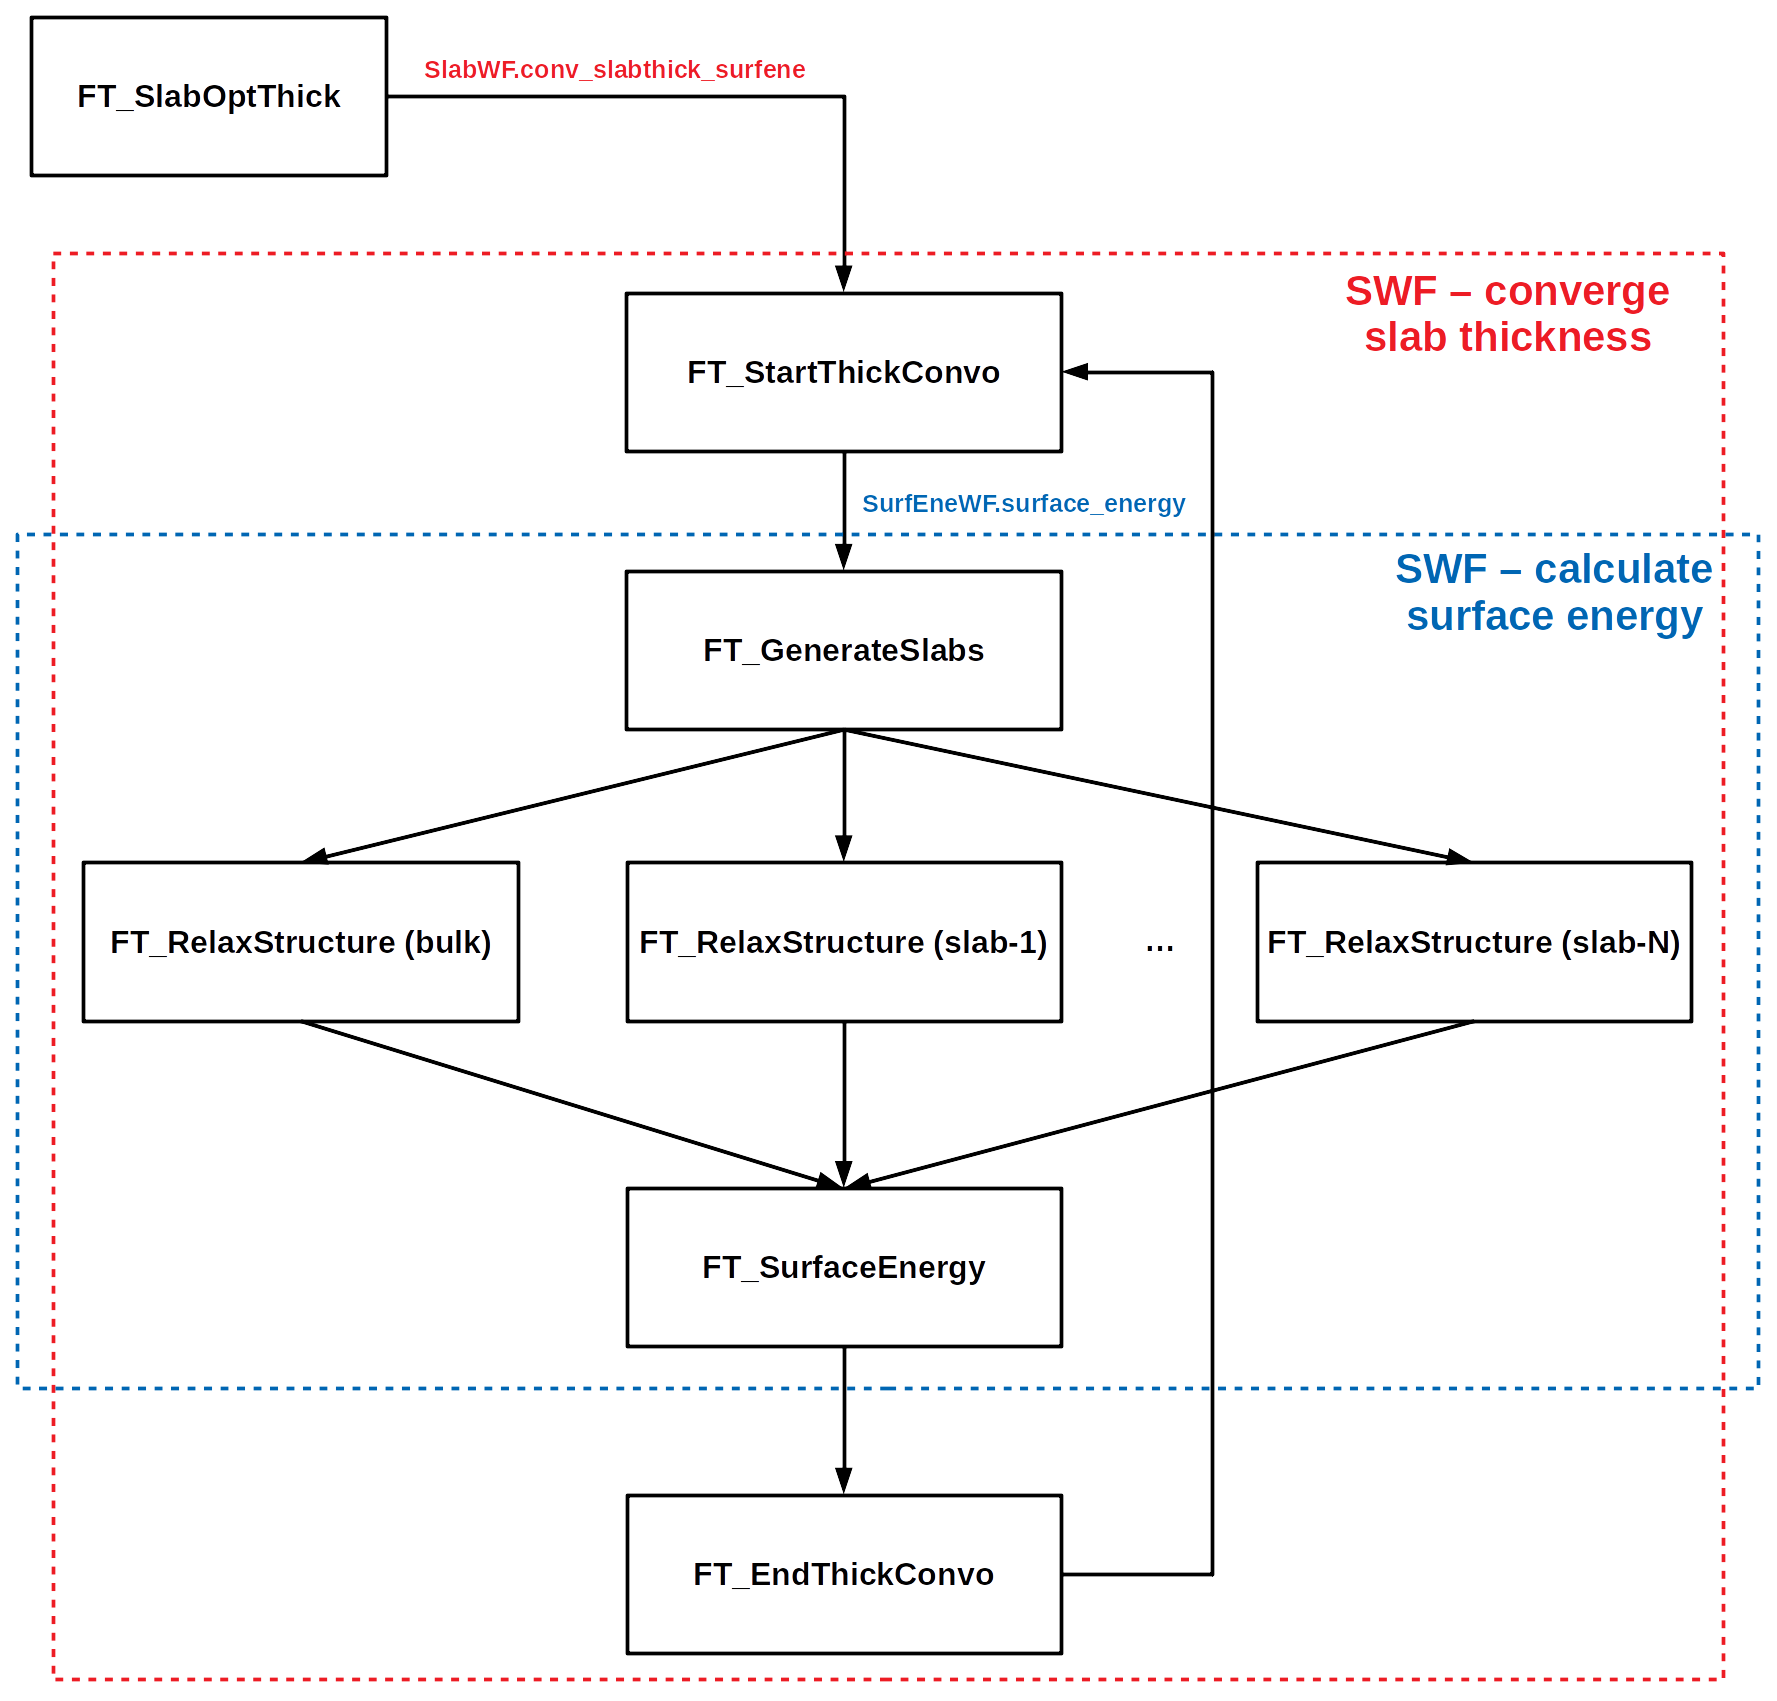
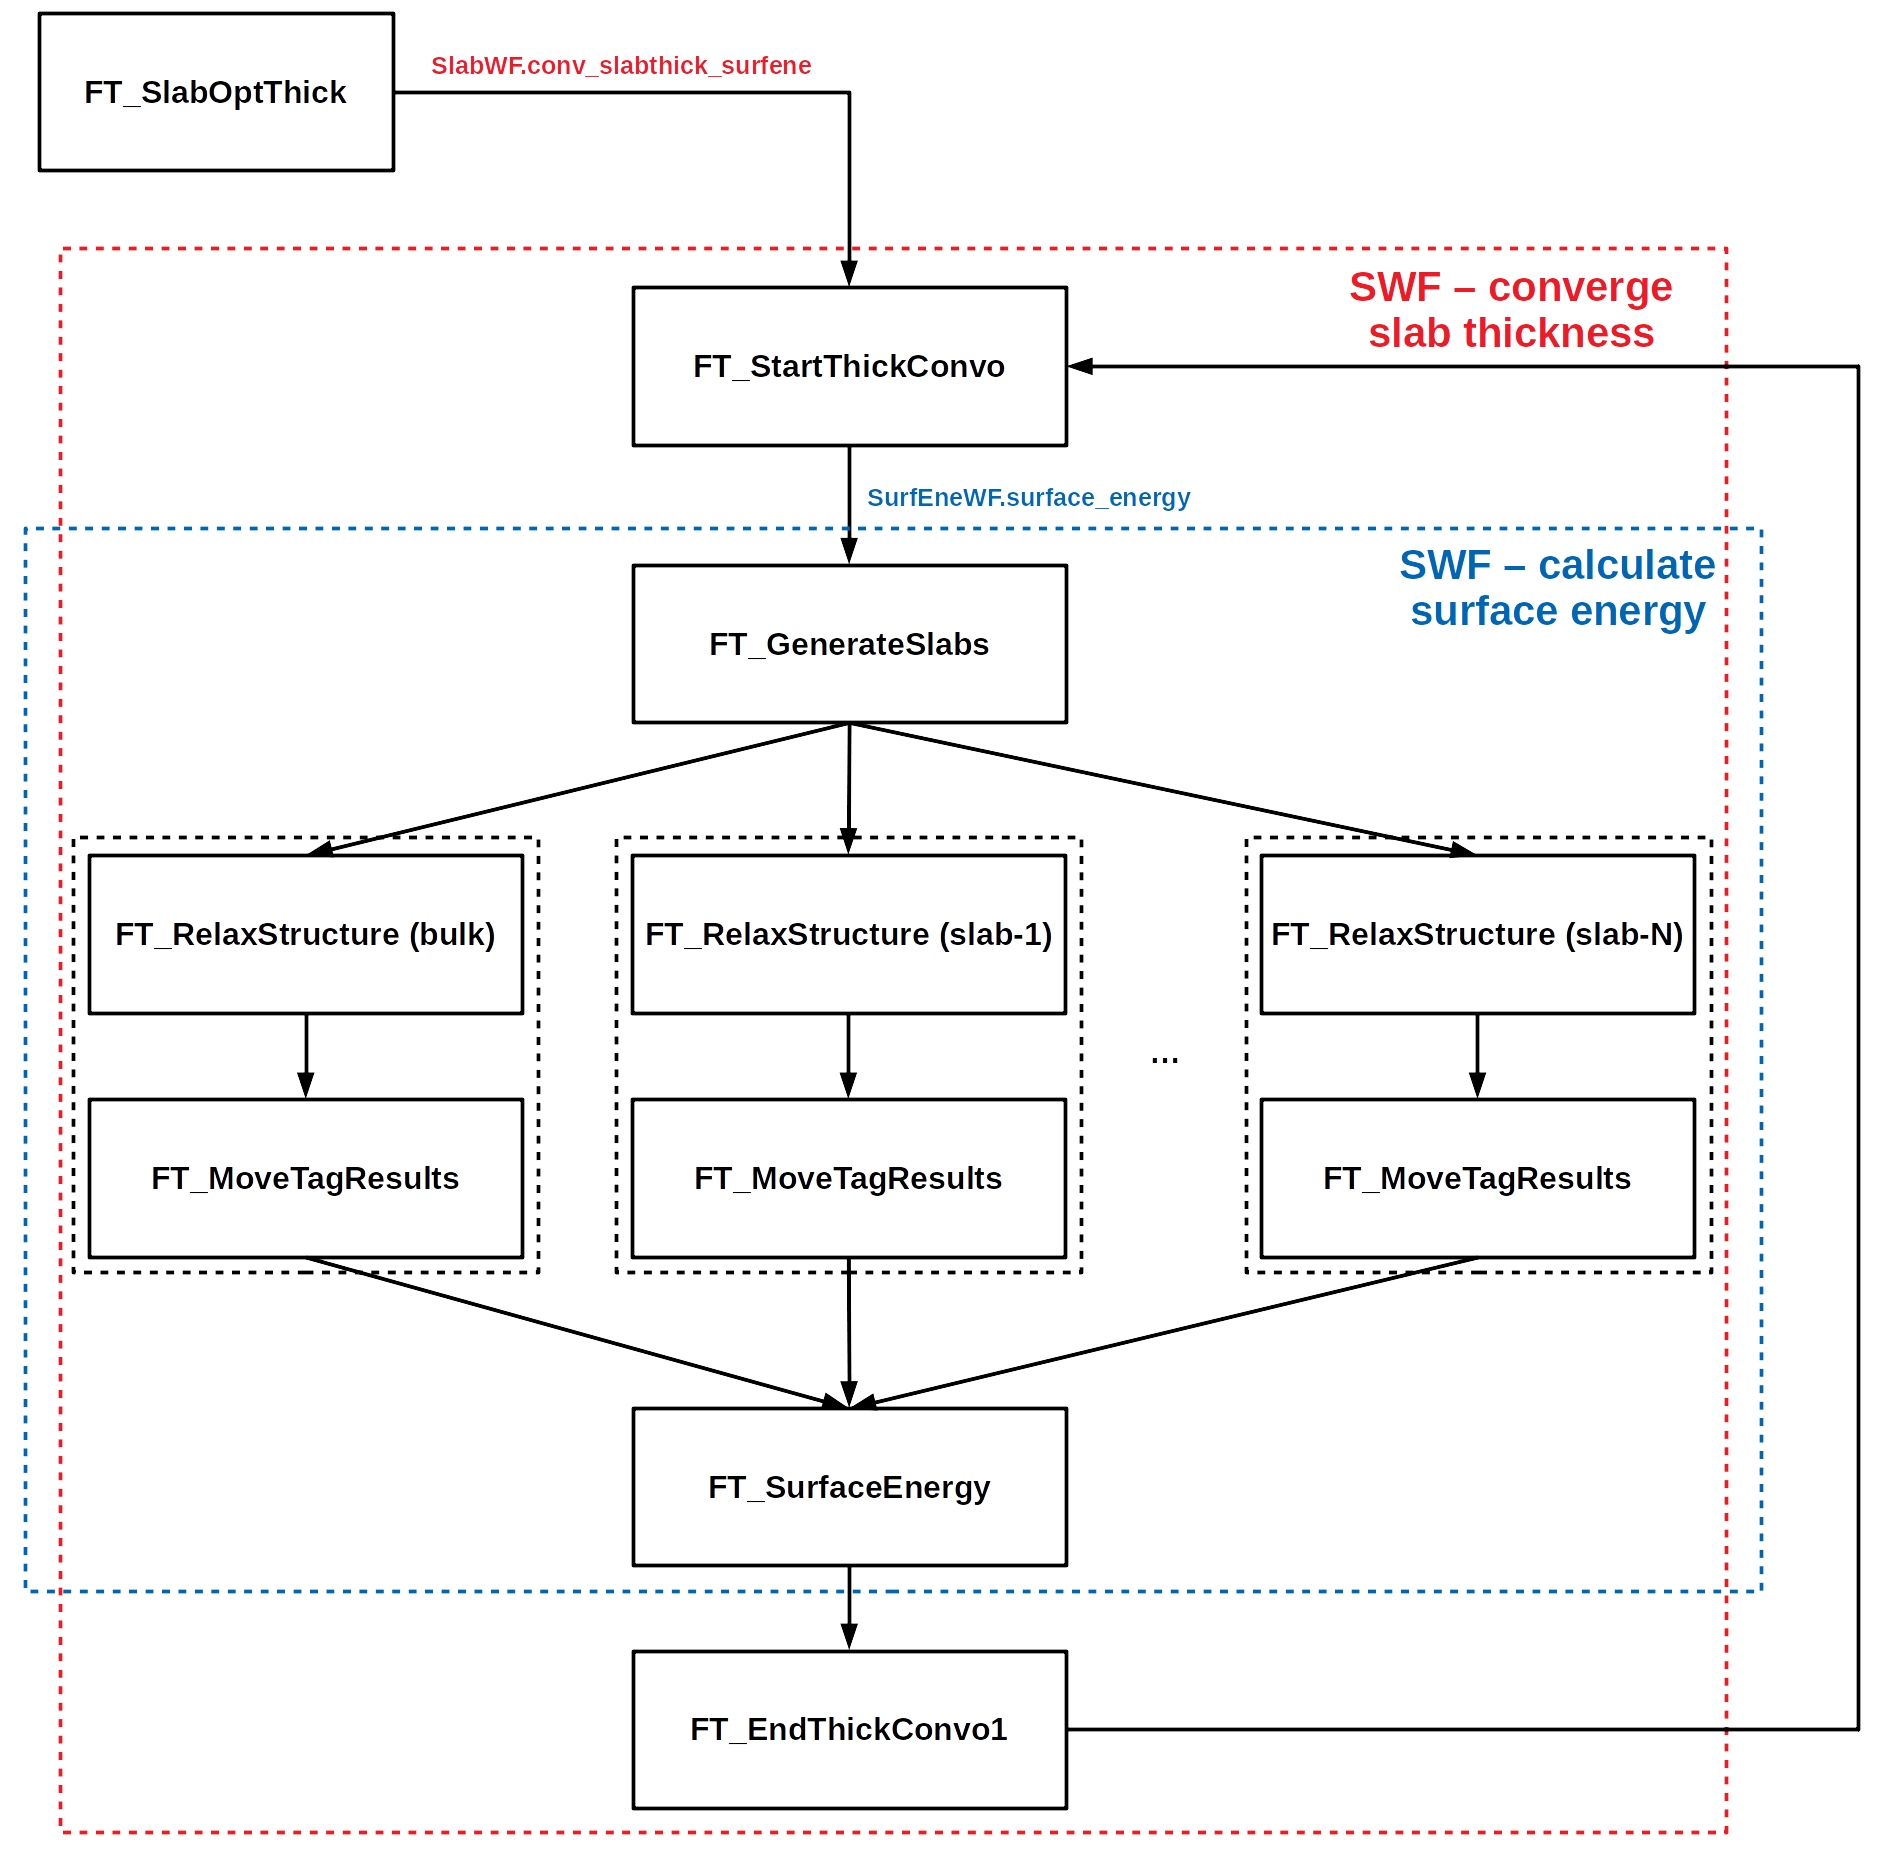
Change MoveStructInDB to MoveTagResults

diff --git a/triboflow/firetasks/surfene_wfs.py b/triboflow/firetasks/surfene_wfs.py
@@ -3,7 +3,7 @@
 """
 Created on Tue Feb  9 14:47:15 2021
 
-Workflows for the surface energy
+Workflows for calculating or converging the surface energy of a slab.
 
 @author: glosi000
 """
@@ -18,9 +18,13 @@ from uuid import uuid4
 import numpy as np
 from fireworks import Workflow, Firework
 
-from triboflow.firetasks.slabs import FT_GenerateSlabs, FT_RelaxStructure, FT_MoveStructInDB
 from triboflow.firetasks.surfene import FT_SurfaceEnergy
 from triboflow.utils.errors import SubWFError
+from triboflow.firetasks.slabs import (
+    FT_GenerateSlabs, 
+    FT_RelaxStructure, 
+    FT_MoveTagResults
+)
 
 
 class SurfEneWF:
@@ -104,37 +108,37 @@ class SurfEneWF:
                                      miller=miller,
                                      check_key='relaxed')
 
-            ft_2 = FT_MoveStructInDB(mp_id=mp_id,
-                                     collection_from=functional+'.slab_data',
-                                     collection_to=functional+'.slab_data',
-                                     db_file=db_file,
-                                     database_from=low_level,
-                                     database_to=high_level,
-                                     miller=miller,
-                                     name_check=[
-                                         ['thickness', 
+            ft_2 = FT_MoveTagResults(mp_id=mp_id,
+                                    collection_from=functional+'.slab_data',
+                                    collection_to=functional+'.slab_data',
+                                    db_file=db_file,
+                                    database_from=low_level,
+                                    database_to=high_level,
+                                    miller=miller,
+                                    name_check=[
+                                        ['thickness', 
+                                        'data_' + str(thk), 
+                                        'calc_output']
+                                        ],
+                                    name=[
+                                        ['thickness', 
                                          'data_' + str(thk), 
-                                         'calc_output']
-                                         ],
-                                     name=[
-                                         ['thickness', 
-                                          'data_' + str(thk), 
-                                          'calc_output'] * 9
-                                         ],
-                                     name_tag=[
-                                         ['output', 'structure'],
-                                         ['nsites'],
-                                         ['output', 'density'],
-                                         ['output', 'energy'],
-                                         ['output', 'energy_per_atom' ],
-                                         ['output', 'bandgap'],
-                                         ['output', 'forces'],
-                                         ['output', 'stresses'],                                         
-                                         ['_id']
-                                         ],
-                                     struct_kind='slab',
-                                     override=True,
-                                     cluster_params=cluster_params)
+                                         'calc_output'] * 9
+                                        ],
+                                    name_tag=[
+                                        ['output', 'structure'],
+                                        ['nsites'],
+                                        ['output', 'density'],
+                                        ['output', 'energy'],
+                                        ['output', 'energy_per_atom' ],
+                                        ['output', 'bandgap'],
+                                        ['output', 'forces'],
+                                        ['output', 'stresses'],                                         
+                                        ['_id']
+                                        ],
+                                    struct_kind='slab',
+                                    override=True,
+                                    cluster_params=cluster_params)
 
             fw = Firework([ft_1, ft_2],
                           spec = spec,

diff --git a/triboflow/utils/errors.py b/triboflow/utils/errors.py
@@ -101,7 +101,7 @@ class RelaxStructureError(GeneralErrorFT):
                                       'structure with mpid: {}, functional: {}'
                                       .format(formula, mp_id, functional))
 
-class MoveStructInDBError(GeneralErrorFT):
+class MoveTagResultsError(GeneralErrorFT):
     """ Errors when moving data between two different db_file/database/collection.
     """
     
@@ -110,22 +110,22 @@ class MoveStructInDBError(GeneralErrorFT):
 
         if isinstance(name, list):
             if not all([isinstance(n, list) for n in name]):
-                raise MoveStructInDBError("Wrong type for arguments: {}. "
+                raise MoveTagResultsError("Wrong type for arguments: {}. "
                                           "Allowed type: list".format(msg))
         
         # elif not isinstance(name, str):
-        #     raise MoveStructInDBError("Wrong argument: {}. "
+        #     raise MoveTagResultsError("Wrong argument: {}. "
         #                               "Allowed types: str, list".format(msg))
 
     @staticmethod
     def check_names(name_check, name, name_tag):
 
-        MoveStructInDBError.check_name(name_check, 'name_check')
-        MoveStructInDBError.check_name(name, 'name')
-        MoveStructInDBError.check_name(name_tag, 'name_tag')
+        MoveTagResultsError.check_name(name_check, 'name_check')
+        MoveTagResultsError.check_name(name, 'name')
+        MoveTagResultsError.check_name(name_tag, 'name_tag')
 
         if len(list(name)) != len(list(name_tag)):
-            raise MoveStructInDBError("Wrong arguments: name or name_tag. If "
+            raise MoveTagResultsError("Wrong arguments: name or name_tag. If "
                                       "converted to str, should have same length")
 
 class SurfaceEnergyError(GeneralErrorFT):

diff --git a/triboflow/firetasks/slabs.py b/triboflow/firetasks/slabs.py
@@ -35,7 +35,7 @@ from triboflow.utils.errors import (
     SlabOptThickError, 
     GenerateSlabsError, 
     RelaxStructureError,
-    MoveStructInDBError,
+    MoveTagResultsError,
     ReadParamsError,
     WriteParamsError
 )
@@ -639,7 +639,7 @@ class FT_RelaxStructure(FiretaskBase):
 
 
 @explicit_serialize
-class FT_MoveStructInDB(FiretaskBase):
+class FT_MoveVaspOutInDB(FiretaskBase):
     """
     Firetask description...
     
@@ -661,7 +661,7 @@ class FT_MoveStructInDB(FiretaskBase):
                                 self.required_params,
                                 self.optional_params,
                                 default_file=dfl,
-                                default_key="MoveStructInDB")
+                                default_key="MoveTagResults")
 
         # Check if a structure is already present in name and check_key
         is_done = self.check_struct(p)
@@ -683,7 +683,7 @@ class FT_MoveStructInDB(FiretaskBase):
     def check_struct(self, p):
         
         # Check if collection does exist
-        MoveStructInDBError.check_collection(p['collection'])
+        MoveTagResultsError.check_collection(p['collection'])
 
         if p['name_check'] is None:
             is_done = False

diff --git a/triboflow/firetasks/slabs_wfs.py b/triboflow/firetasks/slabs_wfs.py
@@ -42,10 +42,6 @@ class SlabWF:
     """
 
     @staticmethod
-    def make_and_relax_slab(structure, mp_id, miller, functional,):
-        pass
-
-    @staticmethod
     def conv_slabthick_surfene(structure, mp_id, miller, functional='PBE',
                                comp_params={}, spec={}, db_file=None,
                                low_level=None, high_level='triboflow',
